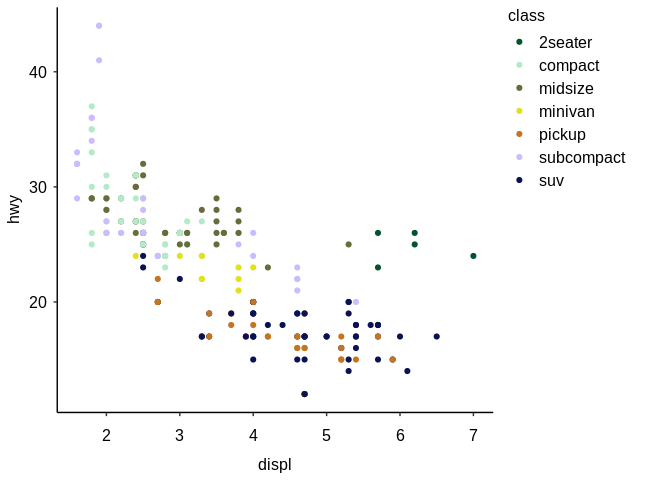
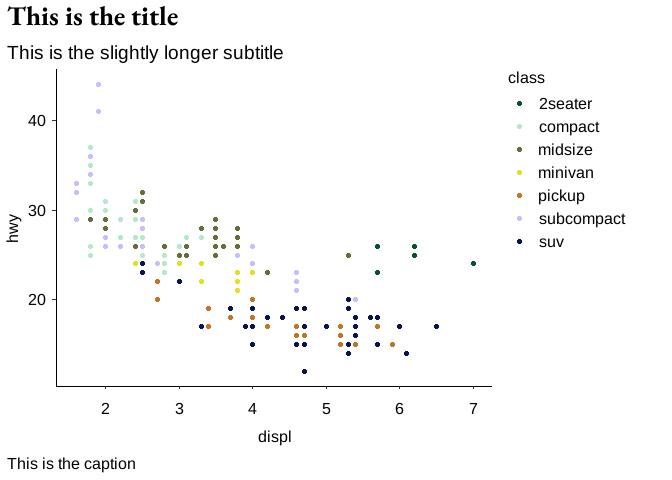
Update README

diff --git a/README.md b/README.md
@@ -1,28 +1,39 @@
 
 <!-- README.md is generated from README.Rmd. Please edit that file -->
 
-# noradplot <img src="man/figures/sticker.png" align="right" width="120" />
+# noradplot <img src="man/figures/sticker.png" align="right" width="120"/>
 
 ## Overview
 
 Norads colour palette and plot style for creating ggplot2 graphics.
 
-## Example
+- Use `theme_norad()` to add norad style
+
+- Use `scale_*` functions to add norad colour palette
+
+## Examples
 
 ``` r
 
 library(ggplot2)
 library(noradplot)
+
+ggnorad()
+
 ggplot(mpg, aes(displ, hwy, color = class)) + 
   geom_point() +
-  theme_norad() +
-  scale_color_norad()
+  scale_color_norad() +
+  labs(title = "This is the title",
+       subtitle = "This is the slightly longer subtitle",
+       caption = "This is the caption")
 ```
 
 ![](man/figures/README-example-1.png)<!-- -->
 
-Credits: Based on Simon Jackson’s blog post: Creating corporate colour
-palettes for ggplot2, BBC BBC Visual and Data Journalism cookbook for R
-graphics: <https://bbc.github.io/rcookbook/> and Meghan Halls blog post
-Creating Custom colour palettes for ggplot2:
+## Credits
+
+Based on Simon Jackson’s blog post: Creating corporate colour palettes
+for ggplot2, BBC BBC Visual and Data Journalism cookbook for R graphics:
+<https://bbc.github.io/rcookbook/> and Meghan Halls blog post Creating
+Custom colour palettes for ggplot2:
 <https://meghan.rbind.io/blog/2022-10-11-creating-custom-color-palettes-with-ggplot2/>
